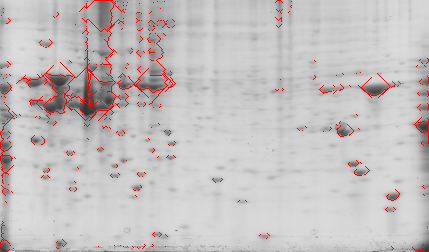
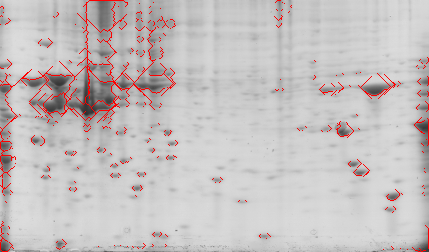
Finished generalized image window restriction

diff --git a/src/libSeamCarve.c b/src/libSeamCarve.c
@@ -96,8 +96,14 @@ static void findSeams(struct pixel *imageVector, struct window *imageWindow, int
 		// move right-to-left ot bottom-to-top across/up the image
 		for (int j = loopInBeg; j > loopInEnd; j -= loopInInc) {
 			// THIS IS THE CRUCIAL PART
-			if (imageVector[minValueLocation].usecount < (255-SEAM_TRACE_INCREMENT)) {
-				imageVector[minValueLocation].usecount += SEAM_TRACE_INCREMENT;
+			if (direction == directionVertical) {
+				if (imageVector[minValueLocation].usecountV < (255-SEAM_TRACE_INCREMENT)) {
+					imageVector[minValueLocation].usecountV += SEAM_TRACE_INCREMENT;
+				}
+			} else {
+				if (imageVector[minValueLocation].usecountH < (255-SEAM_TRACE_INCREMENT)) {
+					imageVector[minValueLocation].usecountH += SEAM_TRACE_INCREMENT;
+				}
 			}
 
 			// get the possible next pixles
@@ -355,7 +361,8 @@ static int *seamCarve(int *imageVector, int imageWidth, int imageHeight, int ima
 			newPixel.energy = 0;
 			newPixel.seamvalH = 0;
 			newPixel.seamvalV = 0;
-			newPixel.usecount = 0;
+			newPixel.usecountH = 0;
+			newPixel.usecountV = 0;
 			workingImage[currentPixel] = newPixel;
 
 			resultImage[inputPixel] = 0;
@@ -553,12 +560,14 @@ static int *seamCarve(int *imageVector, int imageWidth, int imageHeight, int ima
 		} else {
 			resultDirection = 2;
 		}
-	} else if ((forceDirection == 1) || (forceDirection == 8)) {
+	} else if ((forceDirection == 1) || (forceDirection == 6) || (forceDirection == 8)) {
 		fillSeamMatrixHorizontal(workingImage, currentWindow);
 		findSeamsHorizontal(workingImage, currentWindow);
-	} else if ((forceDirection == 2) || (forceDirection == 9)) {
+	} else if ((forceDirection == 2) || (forceDirection == 7) || (forceDirection == 9)) {
 		fillSeamMatrixVertical(workingImage, currentWindow);
 		findSeamsVertical(workingImage, currentWindow);
+	} else if ((forceDirection == 4) || (forceDirection == 5)) {
+		// pass
 	} else {
 		fillSeamMatrixHorizontal(workingImage, currentWindow);
 		fillSeamMatrixVertical(workingImage, currentWindow);
@@ -574,15 +583,15 @@ static int *seamCarve(int *imageVector, int imageWidth, int imageHeight, int ima
 				currentPixel = (j * imageWidth) + i;
 				outputPixel = currentPixel * imageDepth;
 
-				if (workingImage[currentPixel].usecount > THRESHHOLD_USECOUNT) {
+				if (workingImage[currentPixel].usecountH > THRESHHOLD_USECOUNT) {
 					resultImage[outputPixel] = 255;
 					resultImage[outputPixel+1] = 0;
 					resultImage[outputPixel+2] = 0;
 					resultImage[outputPixel+3] = 255;
 				} else {
-					resultImage[outputPixel] = workingImage[currentPixel].r;
-					resultImage[outputPixel+1] = workingImage[currentPixel].g;
-					resultImage[outputPixel+2] = workingImage[currentPixel].b;
+					resultImage[outputPixel] = workingImage[currentPixel].r / 2;
+					resultImage[outputPixel+1] = workingImage[currentPixel].g / 2;
+					resultImage[outputPixel+2] = workingImage[currentPixel].b / 2;
 					resultImage[outputPixel+3] = 255;
 				}
 			}
@@ -593,15 +602,15 @@ static int *seamCarve(int *imageVector, int imageWidth, int imageHeight, int ima
 				currentPixel = (j * imageWidth) + i;
 				outputPixel = currentPixel * imageDepth;
 
-				if (workingImage[currentPixel].usecount > THRESHHOLD_USECOUNT) {
+				if (workingImage[currentPixel].usecountV > THRESHHOLD_USECOUNT) {
 					resultImage[outputPixel] = 255;
 					resultImage[outputPixel+1] = 0;
 					resultImage[outputPixel+2] = 0;
 					resultImage[outputPixel+3] = 255;
 				} else {
-					resultImage[outputPixel] = workingImage[currentPixel].r;
-					resultImage[outputPixel+1] = workingImage[currentPixel].g;
-					resultImage[outputPixel+2] = workingImage[currentPixel].b;
+					resultImage[outputPixel] = workingImage[currentPixel].r / 2;
+					resultImage[outputPixel+1] = workingImage[currentPixel].g / 2;
+					resultImage[outputPixel+2] = workingImage[currentPixel].b / 2;
 					resultImage[outputPixel+3] = 255;
 				}
 			}
@@ -613,16 +622,16 @@ static int *seamCarve(int *imageVector, int imageWidth, int imageHeight, int ima
 				currentPixel = (j * imageWidth) + i;
 				outputPixel = currentPixel * imageDepth;
 				
-				currentUseCount = workingImage[currentPixel].usecount;
+				currentUseCount = workingImage[currentPixel].usecountH + workingImage[currentPixel].usecountV;
 				if (currentUseCount > THRESHHOLD_USECOUNT) {
 					resultImage[outputPixel] = 255;
 					resultImage[outputPixel+1] = 0;
 					resultImage[outputPixel+2] = 0;
 					resultImage[outputPixel+3] = 255;
 				} else {
-					resultImage[outputPixel] = workingImage[currentPixel].r /1;
-					resultImage[outputPixel+1] = workingImage[currentPixel].g /1;
-					resultImage[outputPixel+2] = workingImage[currentPixel].b /1;
+					resultImage[outputPixel] = workingImage[currentPixel].r / 2;
+					resultImage[outputPixel+1] = workingImage[currentPixel].g / 2;
+					resultImage[outputPixel+2] = workingImage[currentPixel].b / 2;
 					resultImage[outputPixel+3] = 255;
 				}
 			}
@@ -634,18 +643,10 @@ static int *seamCarve(int *imageVector, int imageWidth, int imageHeight, int ima
 				currentPixel = (j * imageWidth) + i;
 				outputPixel = currentPixel * imageDepth;
 				
-				currentUseCount = workingImage[currentPixel].usecount;
-				if (currentUseCount > 256) {
-					resultImage[outputPixel] = 255;
-					resultImage[outputPixel+1] = 0;
-					resultImage[outputPixel+2] = 0;
-					resultImage[outputPixel+3] = 255;
-				} else {
-					resultImage[outputPixel] = min(max(workingImage[currentPixel].bright, 0), 255);
-					resultImage[outputPixel+1] = min(max(workingImage[currentPixel].bright, 0), 255);
-					resultImage[outputPixel+2] = min(max(workingImage[currentPixel].bright, 0), 255);
-					resultImage[outputPixel+3] = 255;
-				}
+				resultImage[outputPixel] = min(max(workingImage[currentPixel].bright, 0), 255);
+				resultImage[outputPixel+1] = min(max(workingImage[currentPixel].bright, 0), 255);
+				resultImage[outputPixel+2] = min(max(workingImage[currentPixel].bright, 0), 255);
+				resultImage[outputPixel+3] = 255;
 			}
 		}
 	} else if (resultDirection == 5) {
@@ -656,18 +657,10 @@ static int *seamCarve(int *imageVector, int imageWidth, int imageHeight, int ima
 				currentPixel = (j * imageWidth) + i;
 				outputPixel = currentPixel * imageDepth;
 				
-				currentUseCount = workingImage[currentPixel].usecount;
-				if (currentUseCount > 256) {
-					resultImage[outputPixel] = 255;
-					resultImage[outputPixel+1] = 0;
-					resultImage[outputPixel+2] = 0;
-					resultImage[outputPixel+3] = 255;
-				} else {
-					resultImage[outputPixel] = min(max((workingImage[currentPixel].energy * energyScale), 0), 255);
-					resultImage[outputPixel+1] = min(max((workingImage[currentPixel].energy * energyScale), 0), 255);
-					resultImage[outputPixel+2] = min(max((workingImage[currentPixel].energy * energyScale), 0), 255);
-					resultImage[outputPixel+3] = 255;
-				}
+				resultImage[outputPixel] = min(max((workingImage[currentPixel].energy * energyScale), 0), 255);
+				resultImage[outputPixel+1] = min(max((workingImage[currentPixel].energy * energyScale), 0), 255);
+				resultImage[outputPixel+2] = min(max((workingImage[currentPixel].energy * energyScale), 0), 255);
+				resultImage[outputPixel+3] = 255;
 			}
 		}
 	} else if (resultDirection == 6) {
@@ -678,7 +671,7 @@ static int *seamCarve(int *imageVector, int imageWidth, int imageHeight, int ima
 				currentPixel = (j * imageWidth) + i;
 				outputPixel = currentPixel * imageDepth;
 				
-				currentUseCount = workingImage[currentPixel].usecount;
+				currentUseCount = workingImage[currentPixel].usecountH;
 				if (currentUseCount > 256) {
 					resultImage[outputPixel] = 255;
 					resultImage[outputPixel+1] = 0;
@@ -700,7 +693,7 @@ static int *seamCarve(int *imageVector, int imageWidth, int imageHeight, int ima
 				currentPixel = (j * imageWidth) + i;
 				outputPixel = currentPixel * imageDepth;
 				
-				currentUseCount = workingImage[currentPixel].usecount;
+				currentUseCount = workingImage[currentPixel].usecountV;
 				if (currentUseCount > 256) {
 					resultImage[outputPixel] = 255;
 					resultImage[outputPixel+1] = 0;
@@ -723,16 +716,16 @@ static int *seamCarve(int *imageVector, int imageWidth, int imageHeight, int ima
 				currentPixel = (j * imageWidth) + i;
 				outputPixel = currentPixel * imageDepth;
 				
-				currentUseCount = workingImage[currentPixel].usecount;
+				currentUseCount = workingImage[currentPixel].usecountH;
 				if (currentUseCount > 256) {
 					resultImage[outputPixel] = 255;
 					resultImage[outputPixel+1] = 0;
 					resultImage[outputPixel+2] = 0;
 					resultImage[outputPixel+3] = 255;
 				} else {
-					resultImage[outputPixel] = 255-min(max((workingImage[currentPixel].usecount), 0), 255);
-					resultImage[outputPixel+1] = 255-min(max((workingImage[currentPixel].usecount), 0), 255);
-					resultImage[outputPixel+2] = 255-min(max((workingImage[currentPixel].usecount), 0), 255);
+					resultImage[outputPixel] = 255-min(max((workingImage[currentPixel].usecountH), 0), 255);
+					resultImage[outputPixel+1] = 255-min(max((workingImage[currentPixel].usecountH), 0), 255);
+					resultImage[outputPixel+2] = 255-min(max((workingImage[currentPixel].usecountH), 0), 255);
 					resultImage[outputPixel+3] = 255;
 				}
 			}
@@ -746,76 +739,16 @@ static int *seamCarve(int *imageVector, int imageWidth, int imageHeight, int ima
 				currentPixel = (j * imageWidth) + i;
 				outputPixel = currentPixel * imageDepth;
 				
-				currentUseCount = workingImage[currentPixel].usecount;
+				currentUseCount = workingImage[currentPixel].usecountV;
 				if (currentUseCount > 256) {
 					resultImage[outputPixel] = 255;
 					resultImage[outputPixel+1] = 0;
 					resultImage[outputPixel+2] = 0;
 					resultImage[outputPixel+3] = 255;
 				} else {
-					resultImage[outputPixel] = 255-min(max((workingImage[currentPixel].usecount), 0), 255);
-					resultImage[outputPixel+1] = 255-min(max((workingImage[currentPixel].usecount), 0), 255);
-					resultImage[outputPixel+2] = 255-min(max((workingImage[currentPixel].usecount), 0), 255);
-					resultImage[outputPixel+3] = 255;
-				}
-			}
-		}
-
-	} else if (resultDirection == 99) {
-		int seamValueScale = 4;
-		int currentUseCount = 0;
-		
-		for (int j = 0; j < imageHeight; ++j) {
-			for (int i = 0; i < imageWidth; ++i) {
-				currentPixel = (j * imageWidth) + i;
-				outputPixel = currentPixel * imageDepth;
-				
-				currentUseCount = workingImage[currentPixel].usecount;
-				if (currentUseCount == 0) {
-					resultImage[outputPixel] = 0;
-					resultImage[outputPixel+1] = 0;
-					resultImage[outputPixel+2] = 0;
-					resultImage[outputPixel+3] = 255;
-				} else {
-					resultImage[outputPixel] = 255;
-					resultImage[outputPixel+1] = 255;
-					resultImage[outputPixel+2] = 255;
-					resultImage[outputPixel+3] = 0;
-				}
-			}
-		}
-
-	} else if (resultDirection == 99) {
-		int currentUseCount = 0;
-		for (int j = 0; j < imageHeight; ++j) {
-			for (int i = 0; i < imageWidth; ++i) {
-				currentPixel = (j * imageWidth) + i;
-				outputPixel = currentPixel * imageDepth;
-				
-				currentUseCount = min(max(workingImage[currentPixel].usecount, 0), 255);
-				resultImage[outputPixel] = 255-currentUseCount;
-				resultImage[outputPixel+1] = 255-currentUseCount;
-				resultImage[outputPixel+2] = 255-currentUseCount;
-				resultImage[outputPixel+3] = 255;
-			}
-		}
-	} else if (resultDirection == 99) {
-		int currentUseCount = 0;
-		for (int j = 0; j < imageHeight; ++j) {
-			for (int i = 0; i < imageWidth; ++i) {
-				currentPixel = (j * imageWidth) + i;
-				outputPixel = currentPixel * imageDepth;
-				
-				currentUseCount = min(max(workingImage[currentPixel].usecount, 0), 255);
-				if (!currentUseCount) {
-					resultImage[outputPixel] = 0;
-					resultImage[outputPixel+1] = 0;
-					resultImage[outputPixel+2] = 0;
-					resultImage[outputPixel+3] = 255;
-				} else {
-					resultImage[outputPixel] = 255;
-					resultImage[outputPixel+1] = 255;
-					resultImage[outputPixel+2] = 255;
+					resultImage[outputPixel] = 255-min(max((workingImage[currentPixel].usecountV), 0), 255);
+					resultImage[outputPixel+1] = 255-min(max((workingImage[currentPixel].usecountV), 0), 255);
+					resultImage[outputPixel+2] = 255-min(max((workingImage[currentPixel].usecountV), 0), 255);
 					resultImage[outputPixel+3] = 255;
 				}
 			}

diff --git a/src/sc.c b/src/sc.c
@@ -9,9 +9,9 @@
 #include "libSeamCarve.c"
 #include "libResize.c"
 
-#define PROGRAM_NAME "Seam Carving Tests"
-#define PROGRAM_VERS "0.0"
-#define PROGRAM_COPY "Copyright 2014, Chrisotpher Stoll"
+#define PROGRAM_NAME "Experiments with Seam Carving"
+#define PROGRAM_VERS "0.4"
+#define PROGRAM_COPY "Copyright 201-2015, Christopher Stoll"
 
 static void carve(char *sourceFile, char *resultFile, int forceBrt, int forceClr, int forceDir, int forceEdge, int forceGauss, int verbose)
 {
@@ -94,47 +94,55 @@ int main(int argc, char const *argv[])
 			case '?':
 				printf(PROGRAM_NAME " v" PROGRAM_VERS "\n");
 				printf(PROGRAM_COPY "\n\n");
-				printf("usage: sc [-b 0-6] [-c 1-6] [-d 1-3] [-e 1-7] [-g 1-3] [-v] source_PNG_file result_PNG_file\n");
-				
-				printf("          '-b 0' Average Intensity / Brightness (default) \n");
-				printf("          '-b 1' HSV hexcone (Max Channel) \n");
-				printf("          '-b 2' Luma luminance - sRGB / BT.709 \n");
-				printf("          '-b 3' Luma luminance - NTSC / BT.601 \n");
-				printf("          '-b 4' Relative luminance \n");
-				printf("          '-b 5' HSP? \n");
-				printf("          '-b 6' Euclidian distance (generally poor results)\n");
-				printf("          '-b 7' Estimated relative luminance\n");
-				printf("          '-b 8' Estimated luma luminance - NTSC / BT.601\n");
-
-				printf("          '-c 1' use cosine adjusted brightness \n");
-				printf("          '-c 2' use double-pass cosine adjusted brightness \n");
-				printf("          '-c 3' use triple-pass cosine adjusted brightness \n");
-				printf("          '-c 4' use quadruple-pass cosine adjusted brightness \n");
-				printf("          '-c 5' use Otsu binarization (before any Gaussian blurring) \n");
-
-				printf("          '-d 1' force horizontal direction seams \n");
-				printf("          '-d 2' force vertical direction seams \n");
-				printf("          '-d 3' force both direction seams \n");
-				printf("          '-d 4' output brightness values \n");
-				printf("          '-d 5' output energy values \n");
-				printf("          '-d 6' output seam values (horizontal) \n");
-				printf("          '-d 7' output seam values (vertical) \n");
-				printf("          '-d 8' output seams (horizontal) \n");
-				printf("          '-d 9' output seams (vertical) \n");
-				
-				printf("          '-e 0' use Difference of Gaussian (default) \n");
-				printf("          '-e 1' use Laplacian of Gaussian (sigma=8)\n");
-				printf("          '-e 2' use Laplacian of Gaussian (sigma=4)\n");
-				printf("          '-e 3' use Laplacian of Gaussian (sigma=2)\n");
-				printf("          '-e 4' use Sobel \n");
-				printf("          '-e 5' use LoG Simple\n");
-				printf("          '-e 6' use Simple Gradient \n");
-				printf("          '-e 7' use DoG + Sobel \n");
-				printf("          '-e 8' use LoG (sigma=8) AND Sobel\n");
-
-				printf("          '-g 1' pre-Gaussian blur (sigma=2) \n");
-				printf("          '-g 2' pre-Gaussian blur (sigma=4) \n");
-				printf("          '-g 3' pre-Gaussian blur (sigma=8) \n");
+				printf("usage: sc [-b 0-8] [-c 0-5] [-d 0-9] [-e 0-8] [-g 0-3] [-v] source_PNG_file result_PNG_file \n");
+				printf("       \n");
+				printf("       Brightness Calculation Method \n");
+				printf("         '-b 0' Average Intensity / Brightness (default) \n");
+				printf("         '-b 1' HSV hexcone (Max Channel) \n");
+				printf("         '-b 2' Luma luminance - sRGB / BT.709 \n");
+				printf("         '-b 3' Luma luminance - NTSC / BT.601 \n");
+				printf("         '-b 4' Relative luminance \n");
+				printf("         '-b 5' HSP? \n");
+				printf("         '-b 6' Euclidian distance (generally poor results) \n");
+				printf("         '-b 7' Estimated relative luminance \n");
+				printf("         '-b 8' Estimated luma luminance - NTSC / BT.601 \n");
+				printf("          \n");
+				printf("       Contrast Adjustments \n");
+				printf("         '-c 0' none (default) \n");
+				printf("         '-c 1' use cosine adjusted brightness \n");
+				printf("         '-c 2' use double-pass cosine adjusted brightness \n");
+				printf("         '-c 3' use triple-pass cosine adjusted brightness \n");
+				printf("         '-c 4' use quadruple-pass cosine adjusted brightness \n");
+				printf("         '-c 5' use Otsu binarization (before any Gaussian blurring) \n");
+				printf("          \n");
+				printf("       Force Seam Direction (or other output) \n");
+				printf("         '-d 0' automatically selected (default) \n");
+				printf("         '-d 1' force horizontal direction seams \n");
+				printf("         '-d 2' force vertical direction seams \n");
+				printf("         '-d 3' force both direction seams \n");
+				printf("         '-d 4' output brightness values \n");
+				printf("         '-d 5' output energy values \n");
+				printf("         '-d 6' output seam values (horizontal) \n");
+				printf("         '-d 7' output seam values (vertical) \n");
+				printf("         '-d 8' output seams (horizontal) \n");
+				printf("         '-d 9' output seams (vertical) \n");
+				printf("          \n");
+				printf("       Energy Calculation Method \n");
+				printf("         '-e 0' use Difference of Gaussian (default) \n");
+				printf("         '-e 1' use Laplacian of Gaussian (sigma=8) \n");
+				printf("         '-e 2' use Laplacian of Gaussian (sigma=4) \n");
+				printf("         '-e 3' use Laplacian of Gaussian (sigma=2) \n");
+				printf("         '-e 4' use Sobel \n");
+				printf("         '-e 5' use LoG Simple \n");
+				printf("         '-e 6' use Simple Gradient \n");
+				printf("         '-e 7' use DoG + Sobel \n");
+				printf("         '-e 8' use LoG (sigma=8) AND Sobel \n");
+				printf("          \n");
+				printf("       Pre-processing Options \n");
+				printf("         '-g 0' none (default) \n");
+				printf("         '-g 1' pre-Gaussian blur (sigma=2) \n");
+				printf("         '-g 2' pre-Gaussian blur (sigma=4) \n");
+				printf("         '-g 3' pre-Gaussian blur (sigma=8) \n");
 				return 1;
 			default:
 				fprintf(stderr, "Unexpected argument character code: %c (0x%04x)\n", (char)c, c);

diff --git a/src/pixel.h b/src/pixel.h
@@ -15,7 +15,8 @@ struct pixel {
 	int energy;
 	int seamvalH;
 	int seamvalV;
-	int usecount;
+	int usecountH;
+	int usecountV;
 };
 
 #endif
